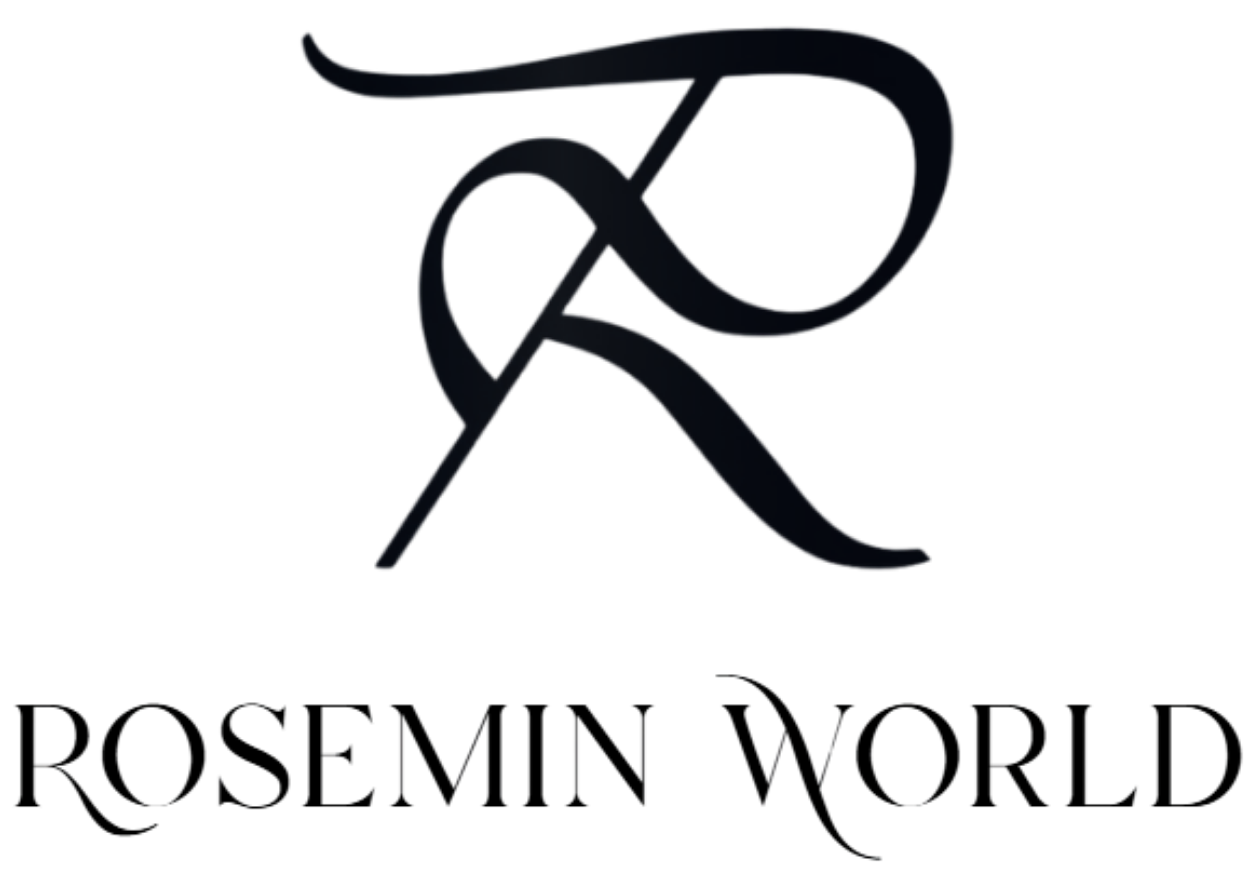
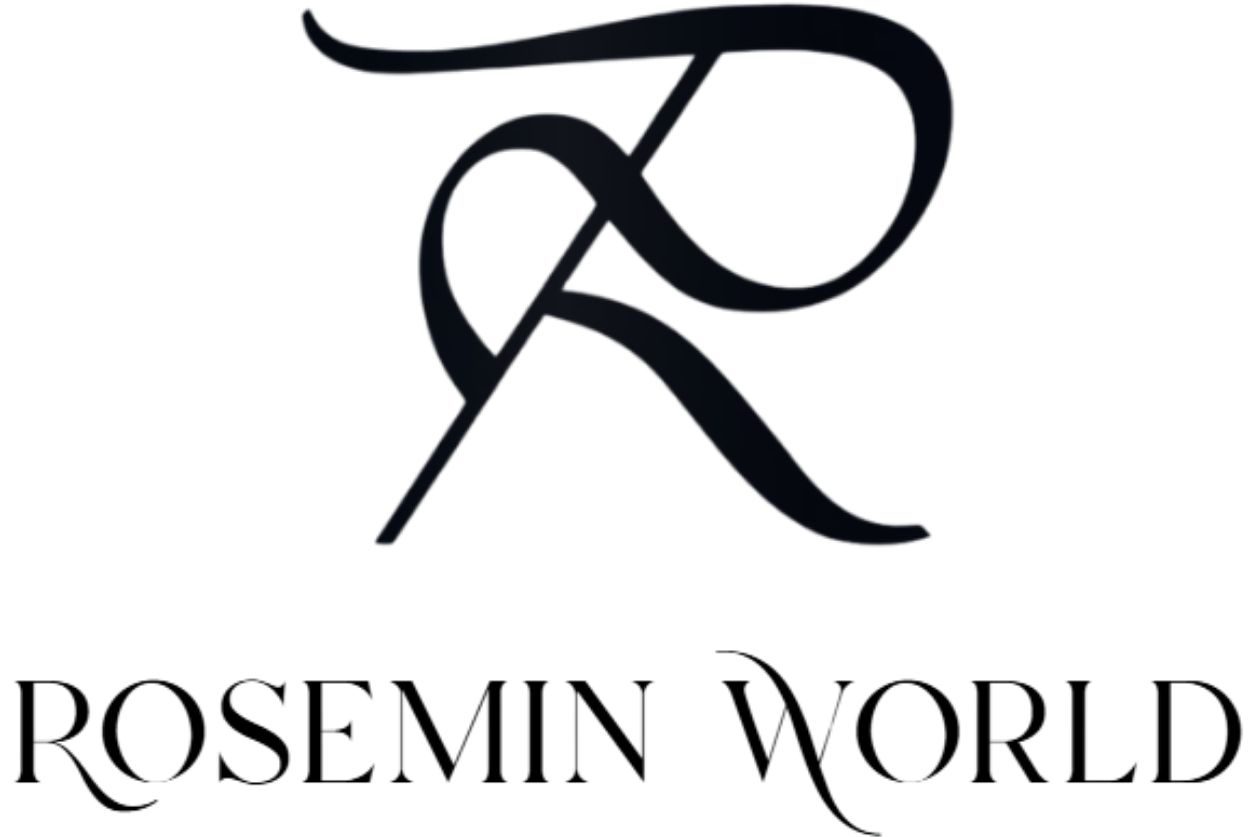
fixed loading screen

diff --git a/src/styles/global.css b/src/styles/global.css
@@ -7,7 +7,11 @@
   }
 
   .intro-logo {
-    @apply fixed left-1/2 top-1/2 z-50 -translate-x-1/2 -translate-y-1/2 p-0;
+    @apply fixed left-1/2 top-1/2 z-50 -translate-x-1/2 -translate-y-1/2;
+  }
+
+  .hero-logo-padding {
+    @apply pl-5 md:pl-10 md:pt-0 pt-4;
   }
 
   .brand-marquee-track {
